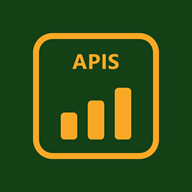
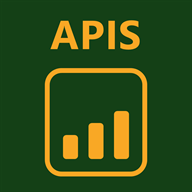
feat(admin): APIS wordmark above the Tax Manager chart box
The wordmark was too small inside the frame, so it now sits outside and above a smaller chart box, at a size that stays readable on a 192 px launcher icon. The maskable copy is scaled to 0.72 of the canvas (still inside the safe circle). Service worker cache moves to landfee-admin-v4.

Changed region(s): [[0.1562, 0.0938, 0.8438, 0.9375]]

diff --git a/public/admin/sw.js b/public/admin/sw.js
@@ -6,7 +6,7 @@
 // ever stored on the device. Everything else goes straight to the network —
 // there is no offline data entry (OCR, fee lookup and verification all need
 // the server).
-const CACHE = 'landfee-admin-v3';
+const CACHE = 'landfee-admin-v4';
 const SHELL = [
   './manifest.webmanifest',
   './manifest-manager.webmanifest',

diff --git a/AGENTS.md b/AGENTS.md
@@ -55,7 +55,7 @@ Land Fee Payment MVP for Savannakhet Province (Lao). Three front-ends over one P
 - **Zone codes are district-lettered.** `districts.zone_letter` (A–O for Savannakhet) prefixes each zone code (`A1`, `O4`). Legacy zones `G17/A7/C7/C8` stay active with `district_id = NULL` ("unassigned").
 - **Citizens are scoped by `owners.citizen_user_id`** (not `payments.payer_owner_id`, which is an `owners.id`). A parcel links a citizen only when that column is set — officer scan-confirm never sets it. The app sets it itself via `citizen_claim.php` (the explicit "add to my parcels" step after a lookup); the officer undoes it on `parcel.php` (`owners.php` `action=unlink_citizen`, audited). Until one of those runs, a new parcel is invisible to citizens.
 - **There is one scan → parcel workflow, and it lives in Parcel Entry's Scan tab (`public/admin/parcel_entry.php?tab=scan` → `api/v1/scans/confirm.php`).** Scan Review is no longer a separate menu item; `public/admin/scans.php` is only a redirect to that tab. Upload, OCR review, confirm/correct and discard all run from the tab, and `api/v1/parcels.php` no longer accepts `scan_id`. Don't add a second confirm path — only `scans/confirm.php` assesses the current-year obligation, so a parcel saved any other way can exist with no fee. The scan-review styles (`.parsed-table`, `.conf-*`) live in `style.php`.
-- **The officer back-office is installable as a PWA and has a phone layout.** The manifest, service worker, icons and install tags are in `public/admin/` and emitted by `style.php` (the login page emits them too). A manager gets a **separate install**: when `$role === 'manager'` `style.php` emits `manifest-manager.webmanifest` (`id`/`start_url` `./monitor.php`, gold bar-chart icons `icon-manager-*.png` + `apple-touch-icon-manager.png`, name "Tax Manager") instead of the officer manifest, so a manager's phone shows a read-only app beside the officer one rather than replacing it. Managers install it from `/admin/monitor.php`, where an "Install app" banner opens the browser's install prompt (iPhone gets a Share → Add to Home Screen hint instead; the banner hides itself when already installed or after "Not now" for a month). Installing from the login page installs the officer app (the role is not known yet there). Both installs share `sw.js` (cache `landfee-admin-v3`). The service worker caches **only** the manifests and icons — never authenticated HTML, API responses or uploads, or one officer's data would be served to the next. Phone rules are the single `@media (max-width: 720px)` block: the sidebar becomes a sticky scrolling top bar, tables scroll horizontally, inputs go to 16px (stops iOS zooming). Use `.pay-split`/`.pay-actions`/`.split-340` for two-column areas — an inline `grid-template-columns` will not collapse on a phone.
+- **The officer back-office is installable as a PWA and has a phone layout.** The manifest, service worker, icons and install tags are in `public/admin/` and emitted by `style.php` (the login page emits them too). A manager gets a **separate install**: when `$role === 'manager'` `style.php` emits `manifest-manager.webmanifest` (`id`/`start_url` `./monitor.php`, gold bar-chart icons `icon-manager-*.png` + `apple-touch-icon-manager.png`, name "Tax Manager") instead of the officer manifest, so a manager's phone shows a read-only app beside the officer one rather than replacing it. Managers install it from `/admin/monitor.php`, where an "Install app" banner opens the browser's install prompt (iPhone gets a Share → Add to Home Screen hint instead; the banner hides itself when already installed or after "Not now" for a month). Installing from the login page installs the officer app (the role is not known yet there). Both installs share `sw.js` (cache `landfee-admin-v4`). The service worker caches **only** the manifests and icons — never authenticated HTML, API responses or uploads, or one officer's data would be served to the next. Phone rules are the single `@media (max-width: 720px)` block: the sidebar becomes a sticky scrolling top bar, tables scroll horizontally, inputs go to 16px (stops iOS zooming). Use `.pay-split`/`.pay-actions`/`.split-340` for two-column areas — an inline `grid-template-columns` will not collapse on a phone.
 - **Manager visibility comes from `users.level`.** `district` managers see their own district, `province` managers are pinned to Savannakhet (resolved by province code `13`, not id, in `staff_province_id()`), and `national` (ministry) managers — e.g. the `min_manager` account — see every province read-only (`staff_province_id()` returns 0). All of it is enforced server-side in `api/v1/dashboard.php`; `monitor.php` only labels the scope ("Whole country" when there is neither a district nor a province). `level` is constrained by `users_level_check` on the server (`019_national_manager_level.sql` widens it to include `national`) — applying that migration is required before the first national account can be created.
 - **Windows PHP built-in server is single-threaded** (`PHP_CLI_SERVER_WORKERS` is Unix-only). Admin pages that call the API server-side deadlock if both share one process. For testing run the API on one port and the UI on another with `API_BASE` pointing at the API.
 - **Production PHP runs under mod_php, not FPM.** The shared `php8.3-fpm` pool has `disable_functions` including `proc_open`/`exec`, which breaks `lib/ocr.php` (Tesseract is launched via `proc_open`). The `landtax.apis.com.la` vhost therefore serves `.php` via `SetHandler "application/x-httpd-php"` (mod_php) so OCR works; the server-wide FPM ini must NOT be edited to un-disable `proc_open` (other apps depend on it). If scan uploads 500 with an empty body, first confirm the landtax vhost is still on mod_php.
